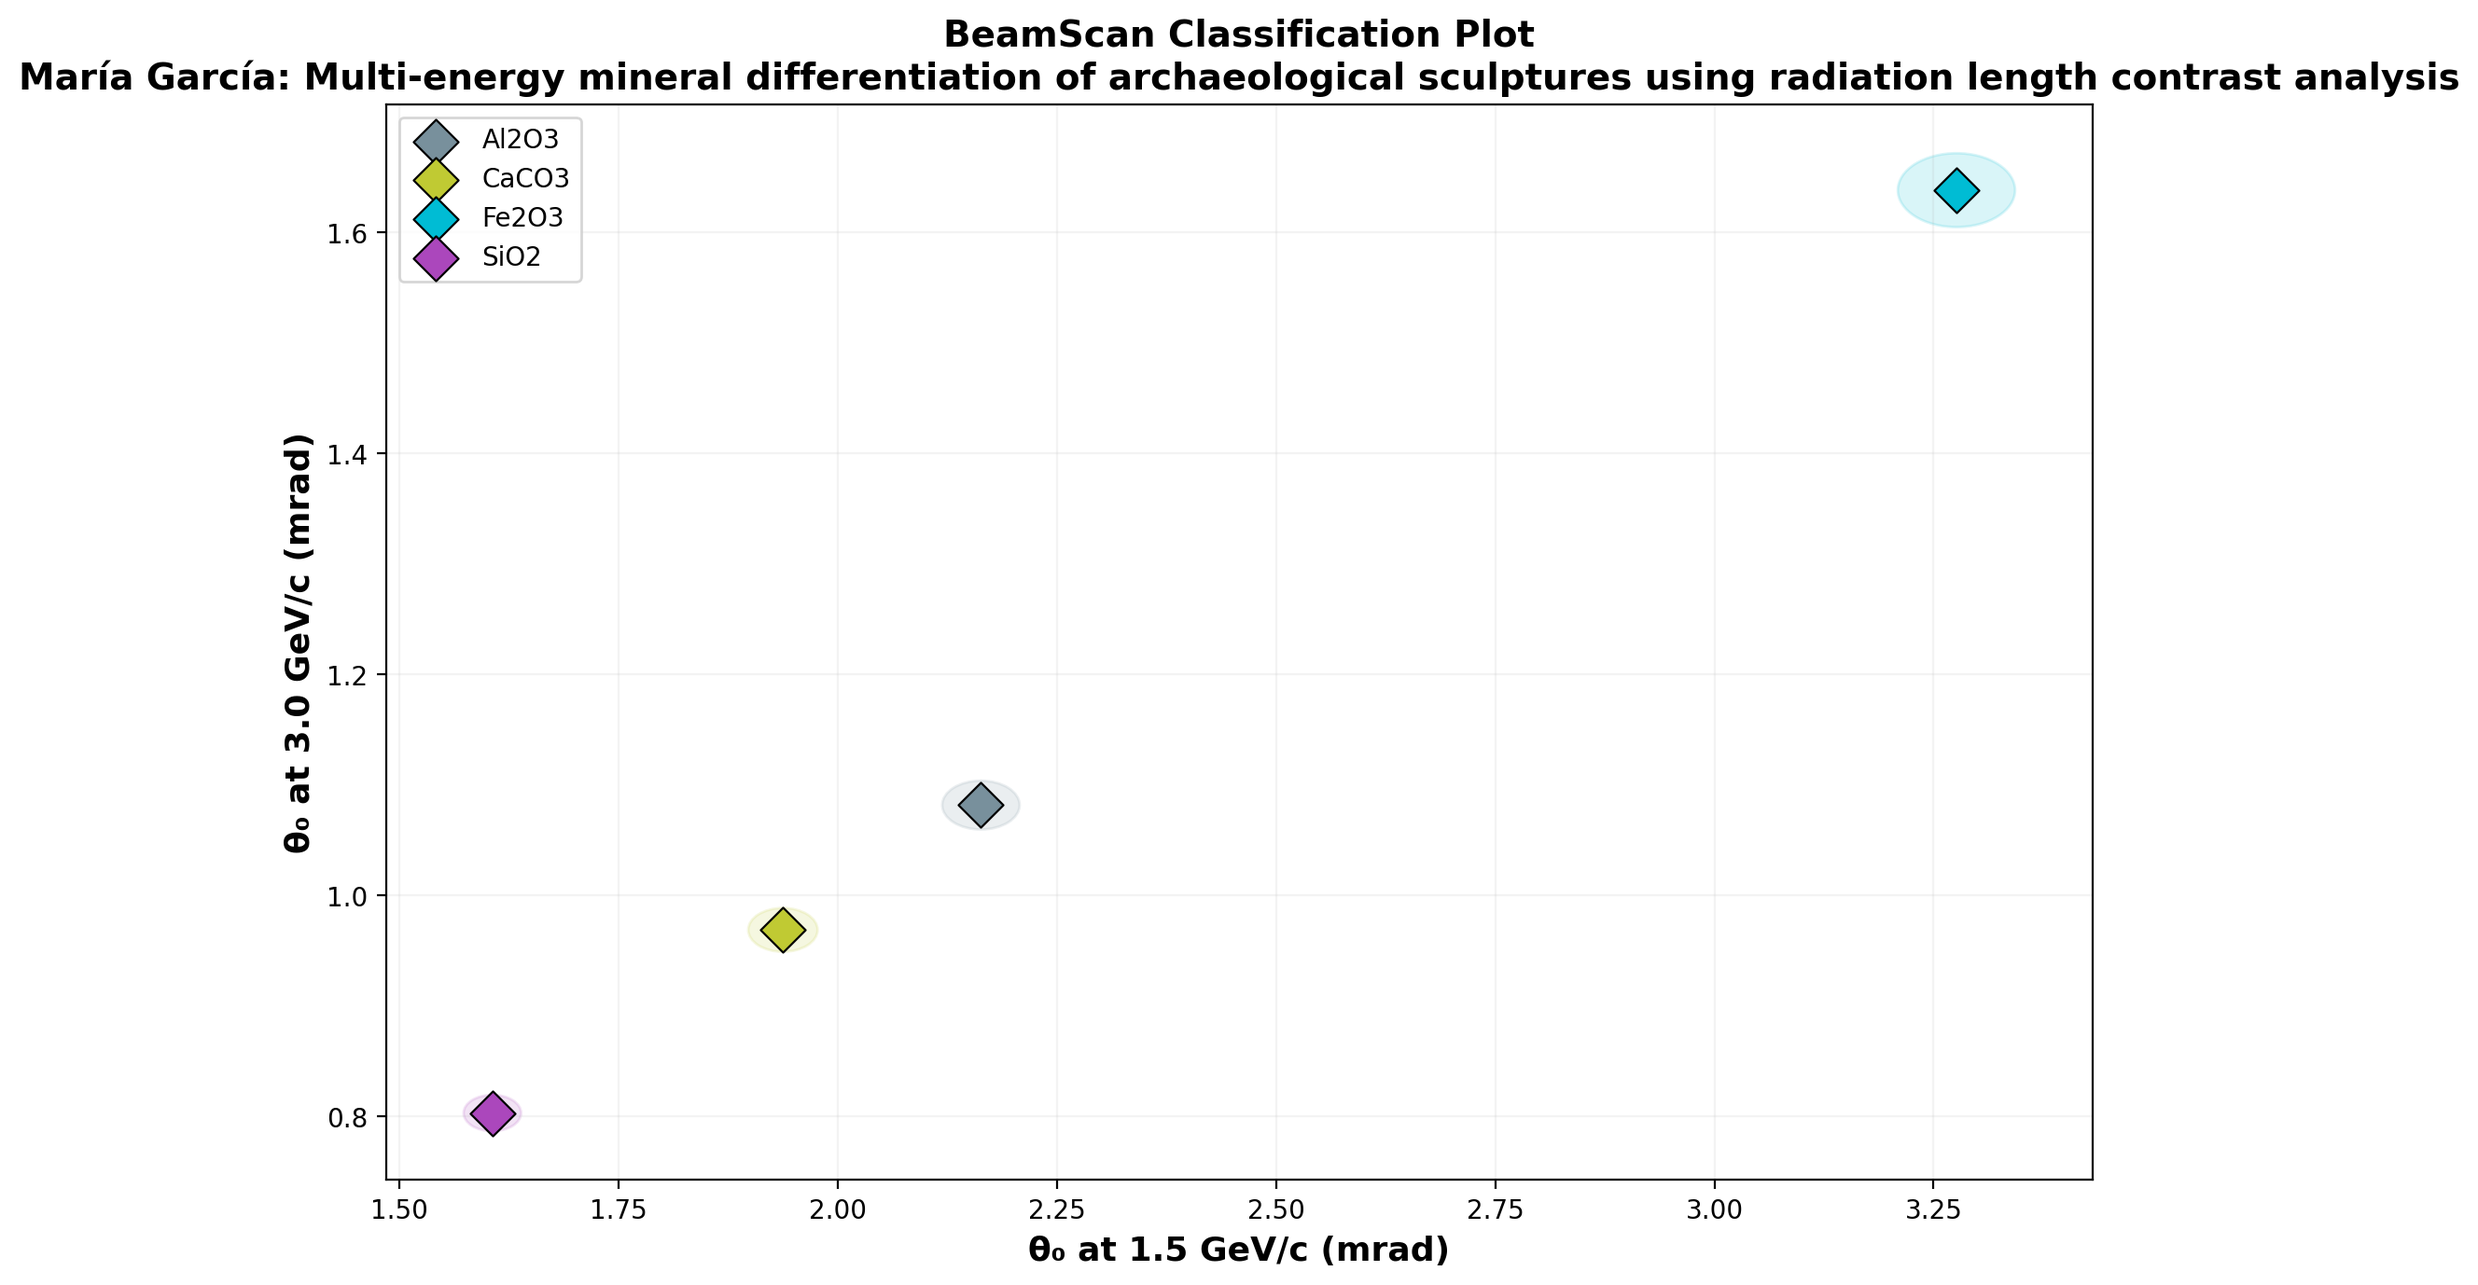
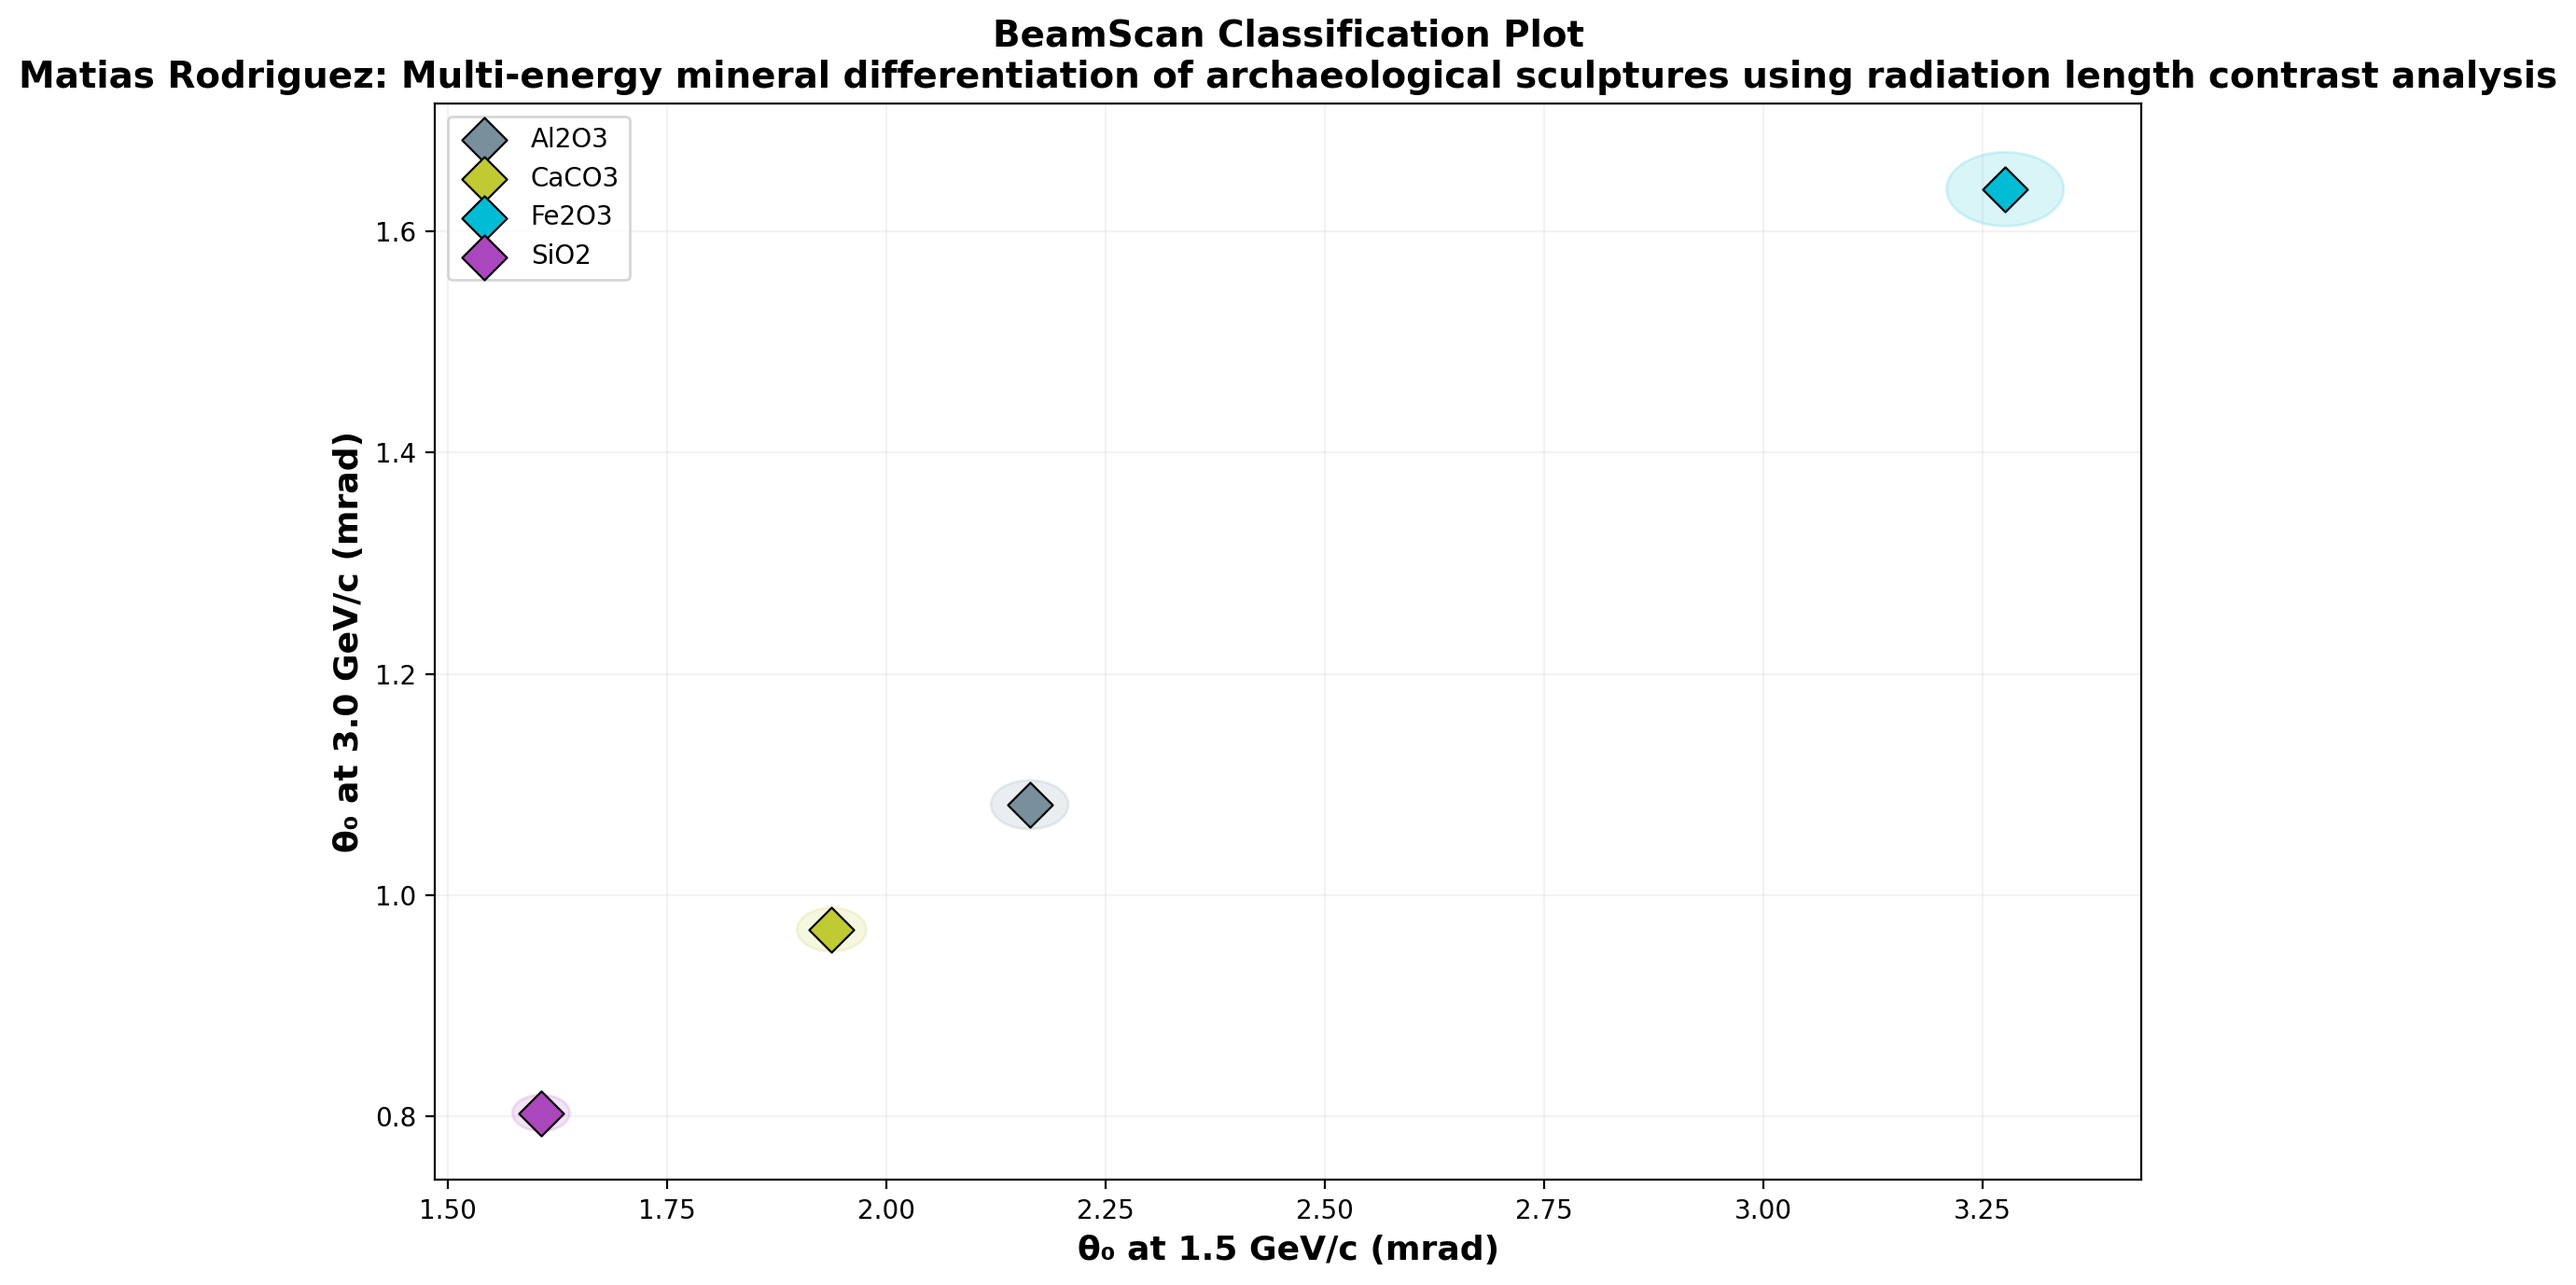
🔬 Update Highland predictions [skip ci]

diff --git a/results/artifact_mineral_scan/SUMMARY.md b/results/artifact_mineral_scan/SUMMARY.md
@@ -1,8 +1,8 @@
 # 🔬 BeamScan Simulation Results
 
-**Author:** María García  
+**Author:** Matias Rodriguez  
 **Description:** Multi-energy mineral differentiation of archaeological sculptures using radiation length contrast analysis  
-**Generated:** 2026-03-01 00:02 UTC  
+**Generated:** 2026-03-01 00:40 UTC  
 **Method:** Highland formula (analytical)
 
 ## Beam Settings
